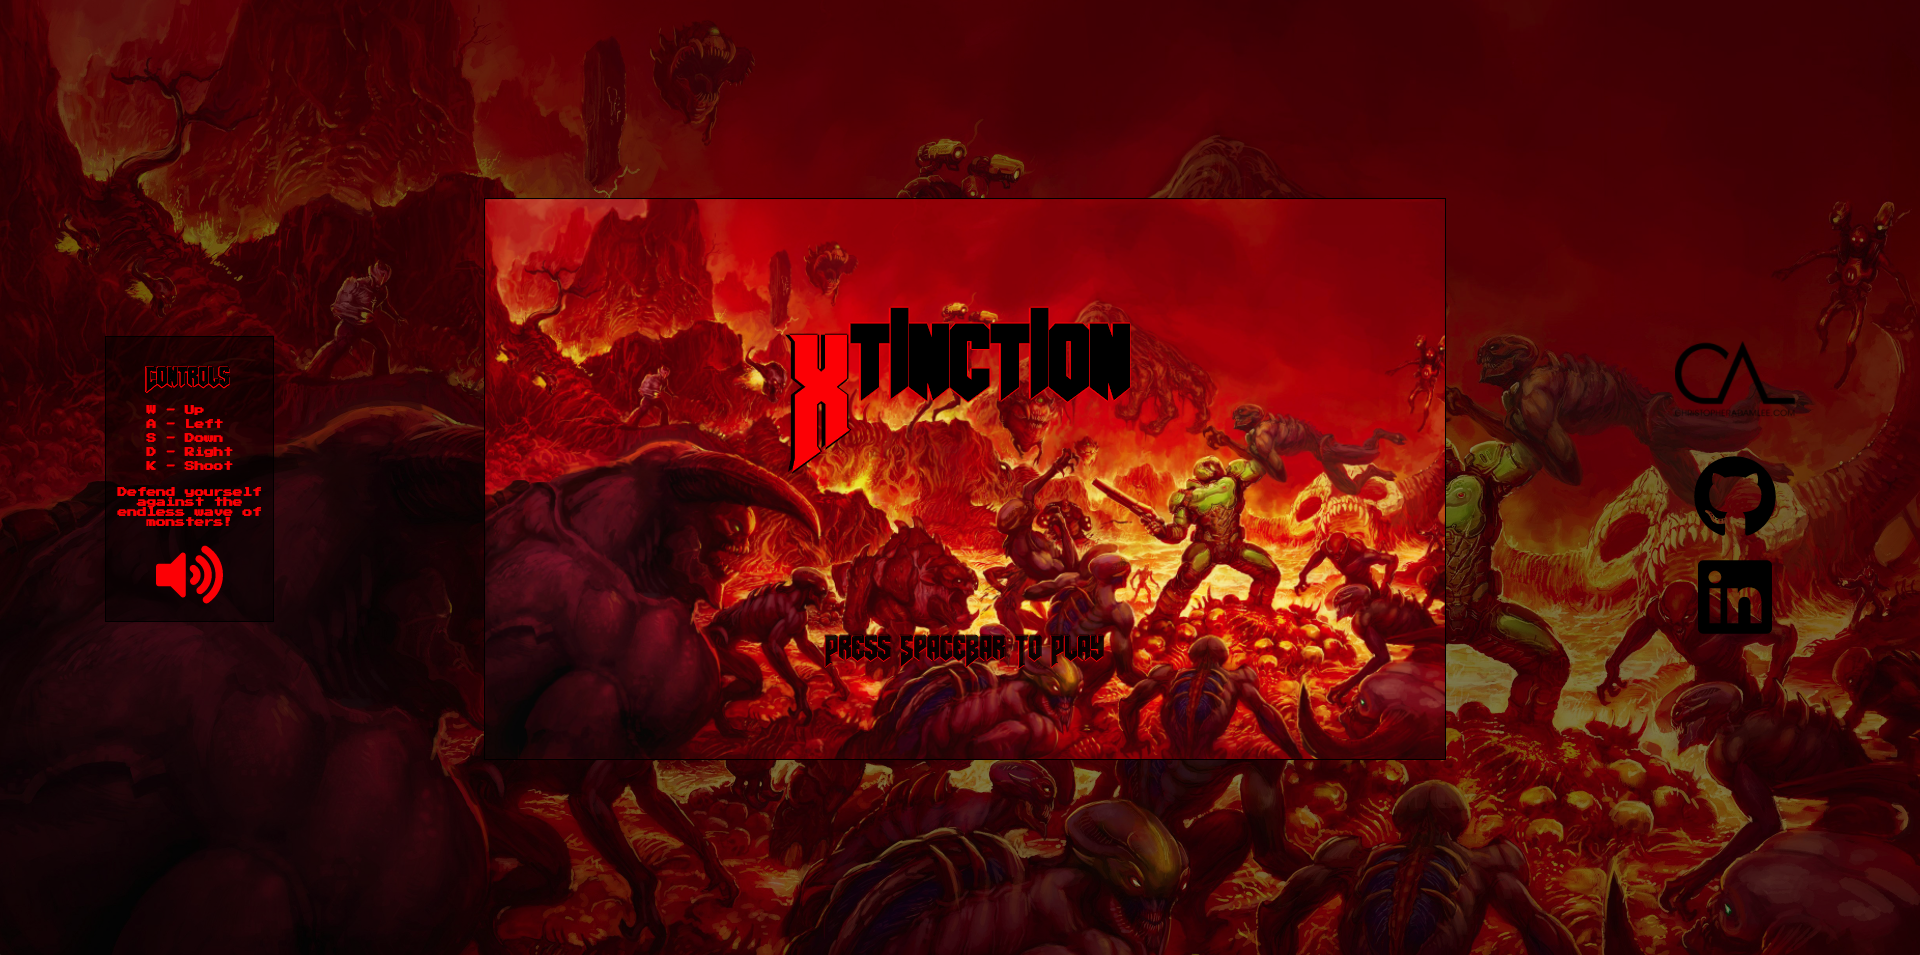
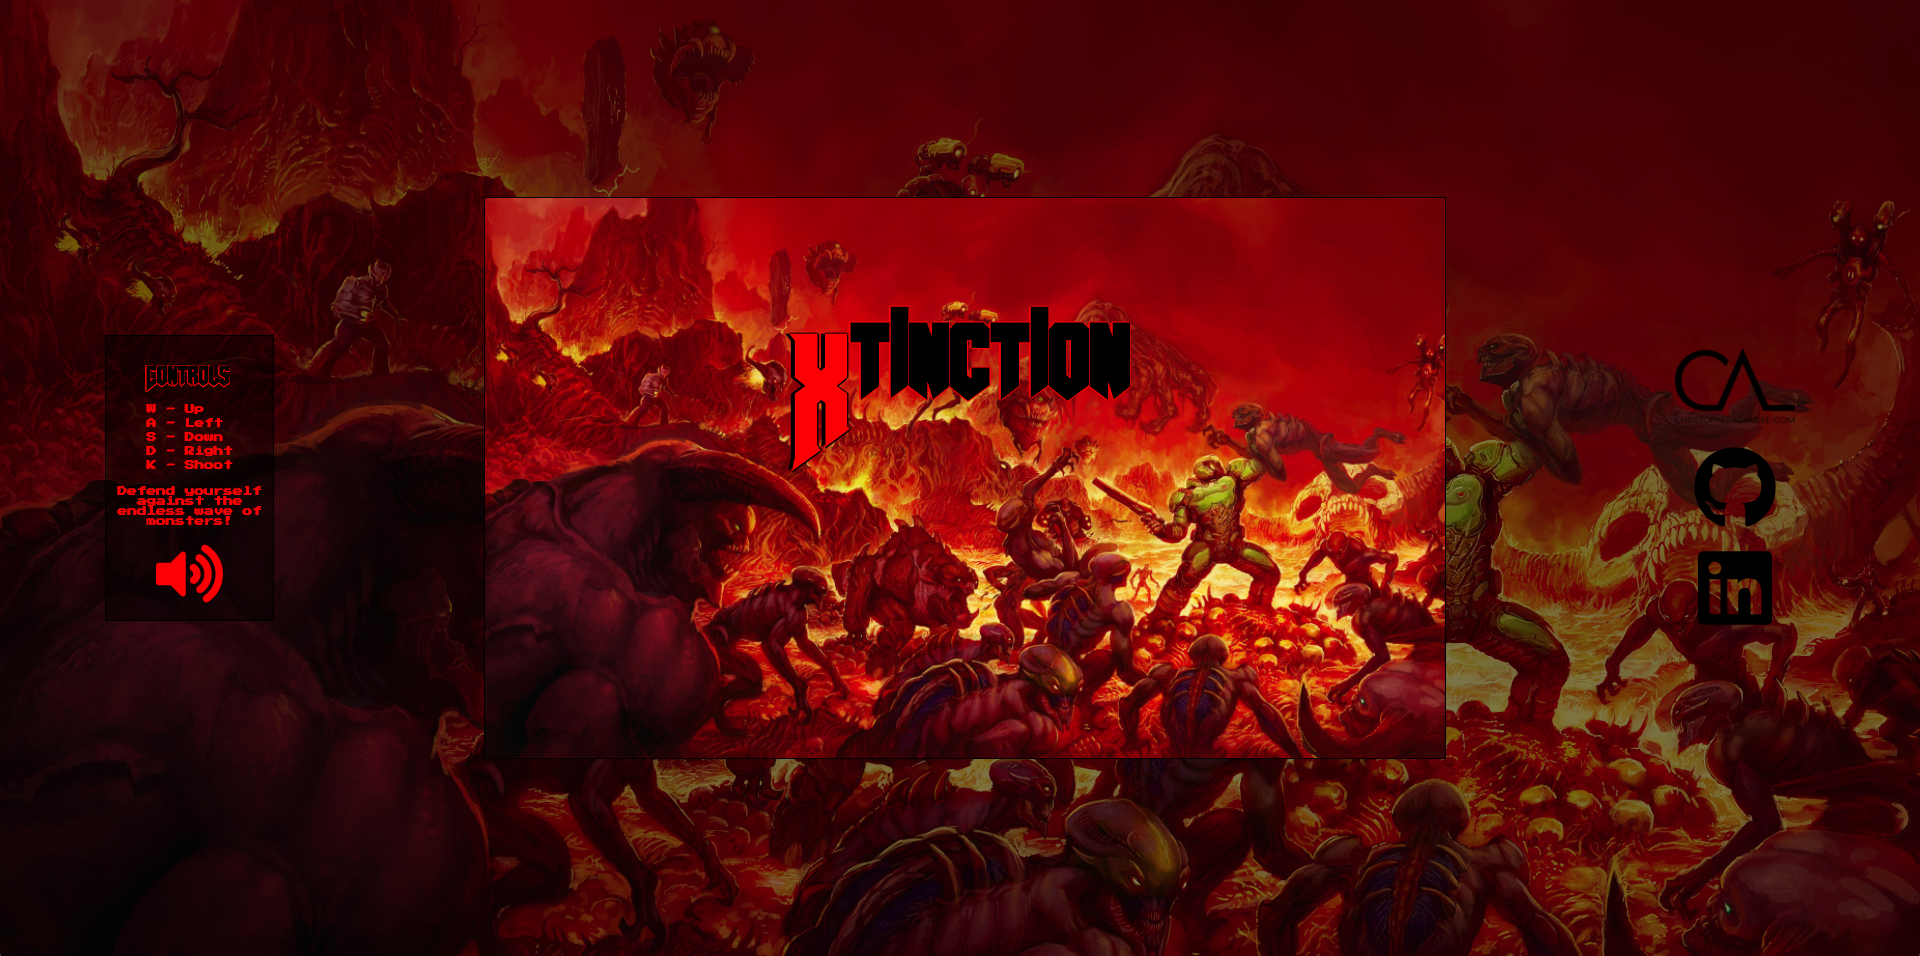
Updated readme with updated ss

diff --git a/README.md b/README.md
@@ -7,7 +7,7 @@ Xtinction is a survival shooter game built with JavaScript and Canvas where the 
 
 [Live-Demo](http://www.christopheradamlee.com/Xtinction/)
 
-![starting-screen](./screenshots/xtinction-ss.png)
+![starting-screen](./screenshots/xtinction-updated-ss.png)
 
 ## Renders multiple objects in a single animation frame
 The game re-renders Canvas using `requestAnimationFrame`. In the `render()` function, it re-renders each object in the game (player, monsters, and bullets) where-ever their position is on the canvas. It also checks if the game is over to render a death animation for the player's character, triggering a game-over screen overlay via an event listener.
